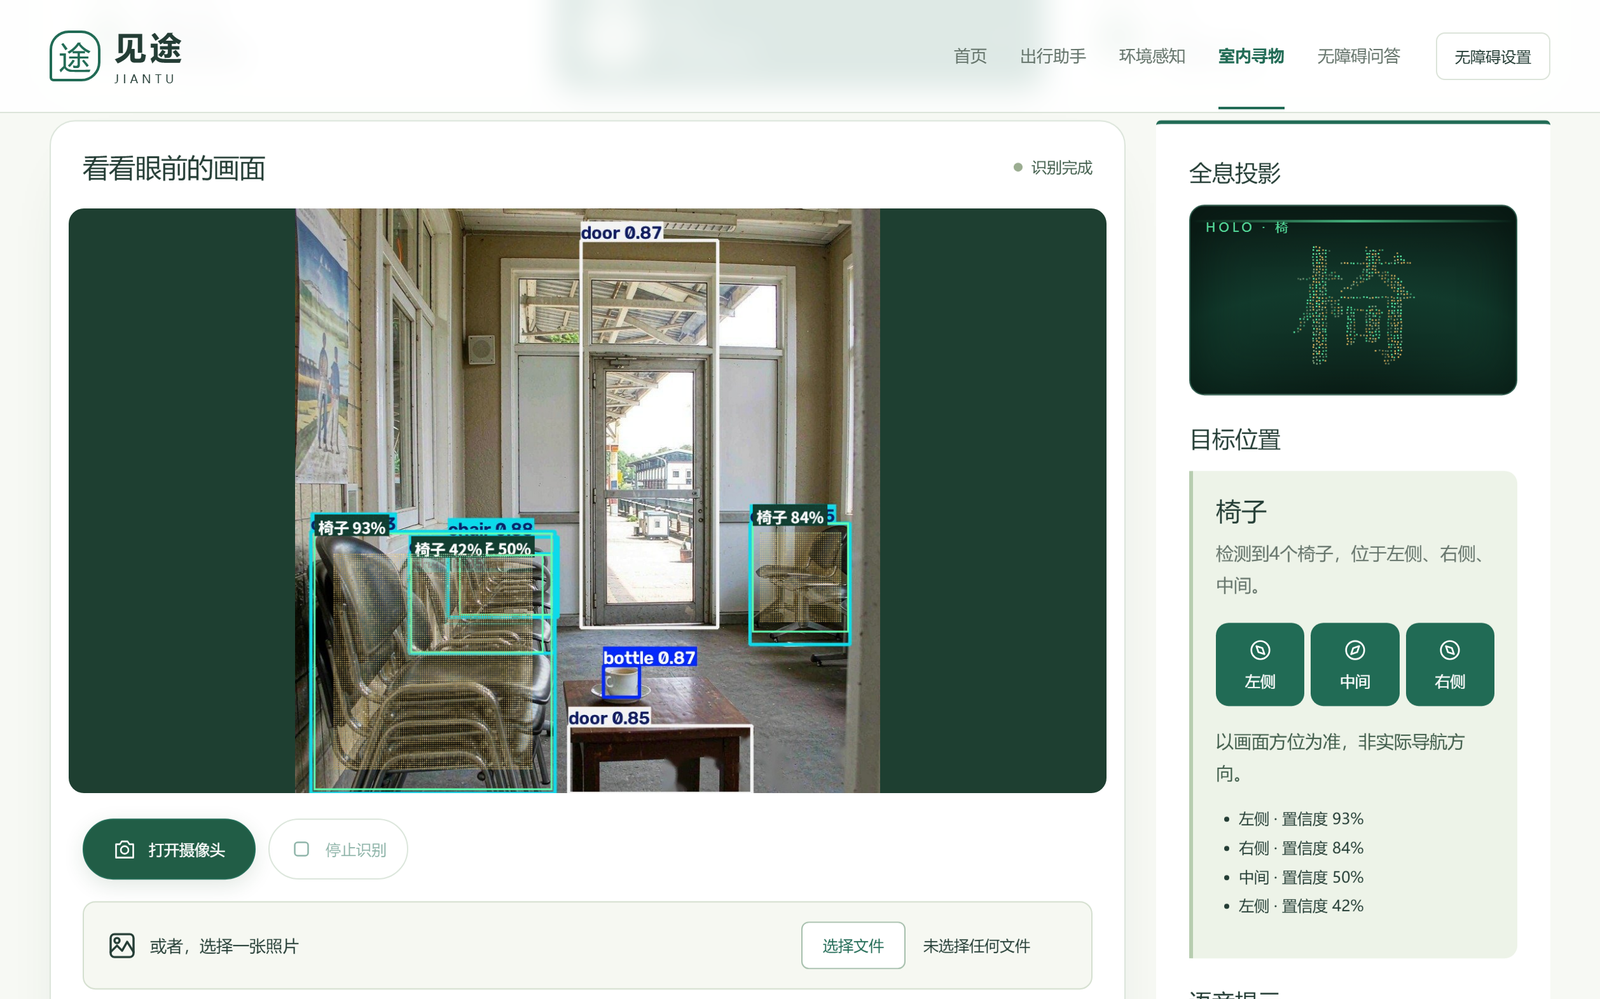
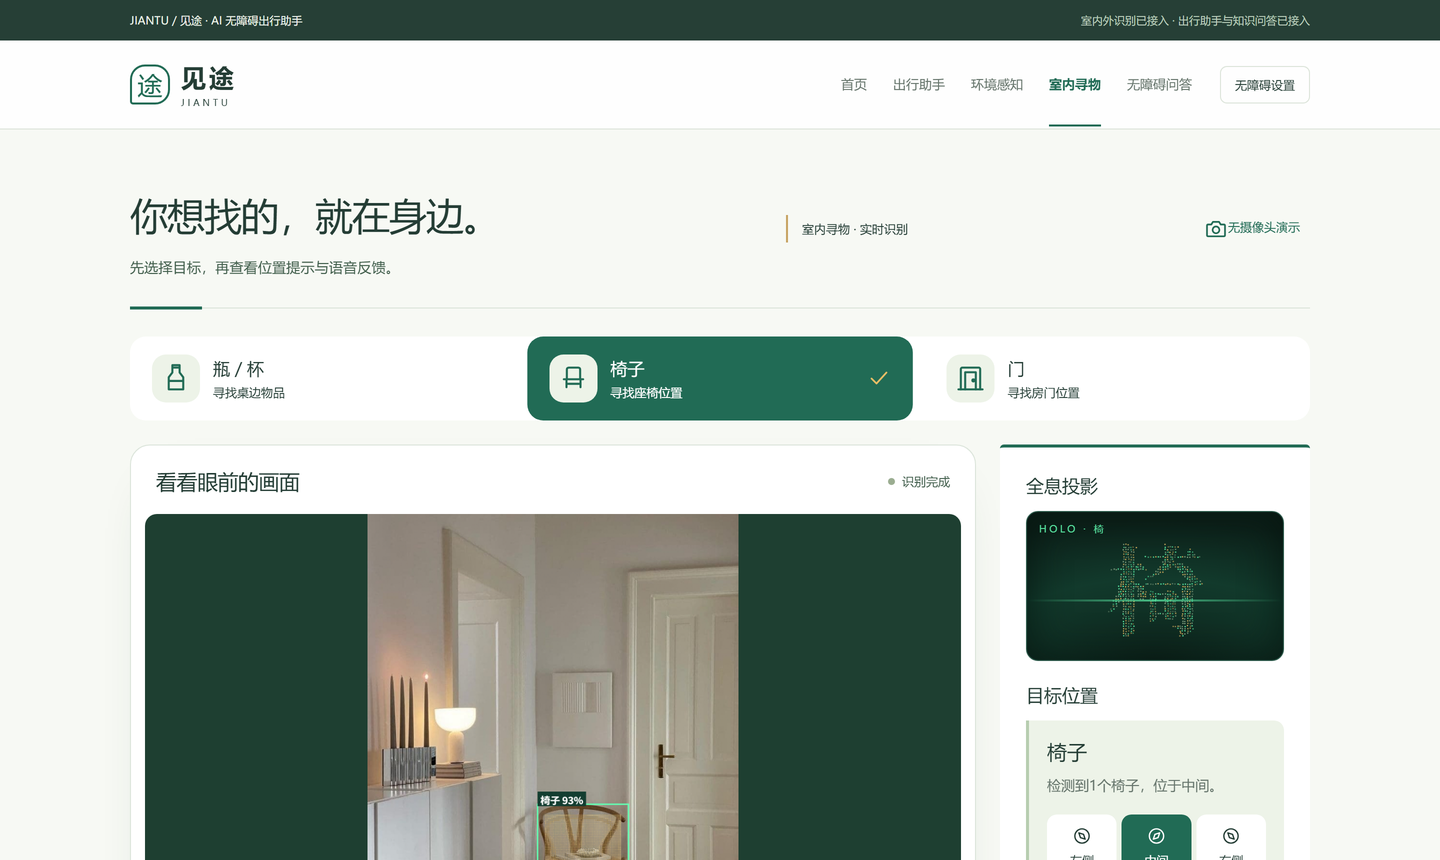
docs(readme): 室内一节改用现行界面截图，补模型口径
- 旧截图是英文标签的早期界面，与现在“椅子 93%”的中文标签不符，已重拍
- 合并原来“扫描中/识别完成”两张图，保留识别完成后的一张
- 补一句模型口径：v3 近景椅子召回 0.83、远景易漏检，界面不写准确率

diff --git a/README.md b/README.md
@@ -23,15 +23,14 @@
 
 选择要找的物品（瓶/杯、椅子、门），上传照片或打开摄像头，YOLOv8 本地推理实时框出目标。
 
-![识别过程](docs/screenshots/indoor-scan.png)
-
-**识别粒子可视化**：扫描线掠过后，只有被检出的目标区域覆上一层琥珀色粒子薄层停留标注，其余画面恢复原样；中文标签给出目标与置信度。一张照片，看见 AI 注意力的流向。
-
 ![识别完成](docs/screenshots/indoor-detect.png)
+
+**识别粒子可视化**：识别完成后，只有被检出的目标区域覆上一层琥珀色粒子薄层停留标注，其余画面恢复原样；中文标签给出目标与置信度。一张照片，看见 AI 注意力的流向。
 
 - 全息粒子投影舱：目标汉字由千余个发光粒子聚合而成，鼠标划过会推开粒子
 - 裸眼 3D：照片层与粒子层反向位移，无需眼镜就有深度
 - 方位播报：左侧/中间/右侧 + 置信度，Web Speech 朗读；同场景多目标时按方位分别给出置信度
+- 模型口径：现行 v3（训练集 5055 张）。旧测试集与训练同源、指标虚高，已重建 1452 张干净测试集重测：椅子近景召回 0.83，远景目标仍易漏检。界面上因此不写「识别准确率」，只写模型能做什么、做不到什么，完整数据见 `model-training/indoor/eval/REPORT.md`
 
 ### 🌆 环境感知 —— 街面分级预警
 
